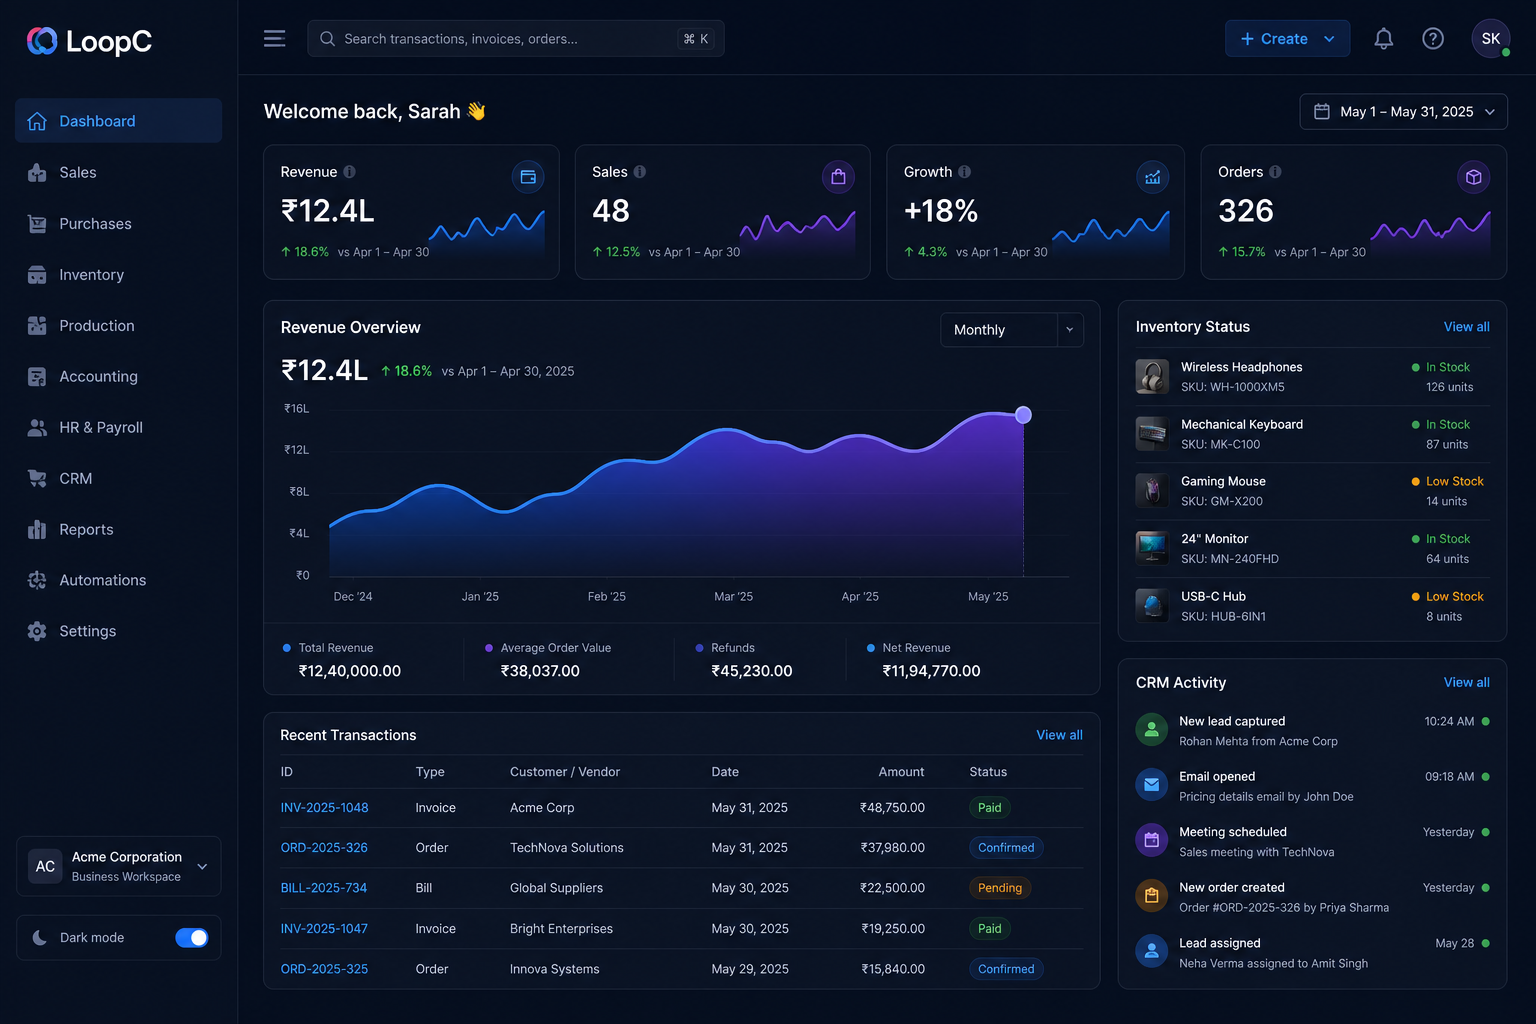
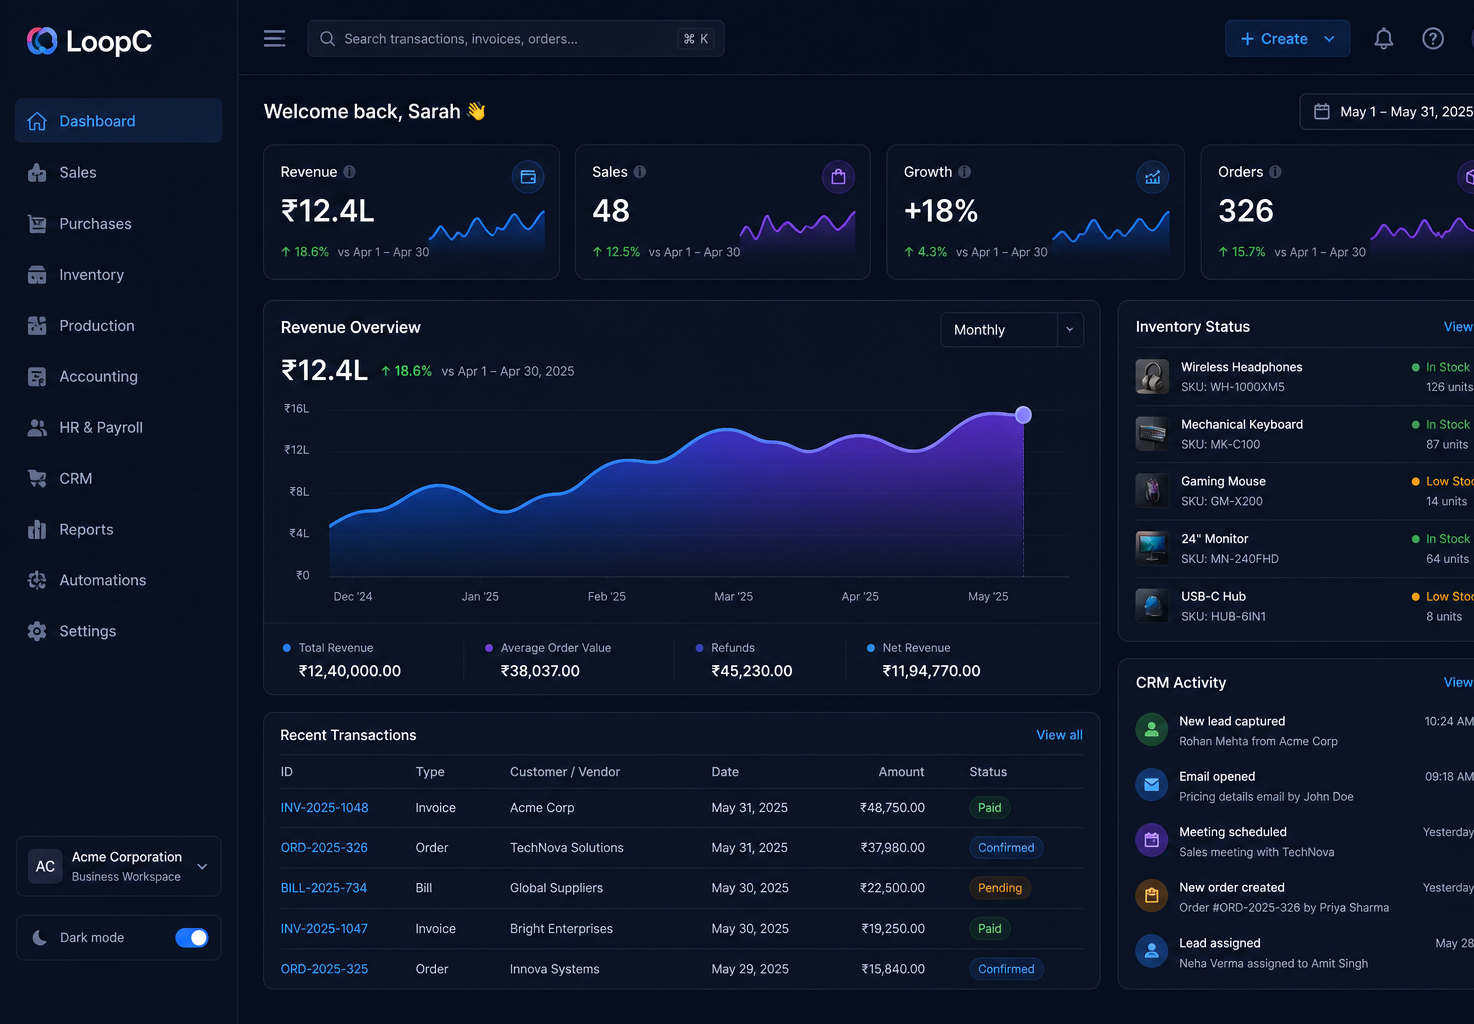
Harden marketing SEO and crop hero dashboard scrollbar.
Crop baked-in PNG scrollbars, centralize unique page titles and descriptions with robots/canonical metadata, add ERP FAQ schema, and tighten 404 noindex.

diff --git a/site/lib/seo.ts b/site/lib/seo.ts
@@ -1,5 +1,4 @@
 import type { Metadata } from "next";
-import { insightAuthor, type InsightPost } from "@/lib/insights";
 import type { Industry } from "@/lib/industries";
 import type { Project } from "@/lib/projects";
 import type { Service } from "@/lib/services";
@@ -19,20 +18,89 @@ export const seoKeywords = [
 ] as const;
 
 export const defaultSiteTitle =
-  "LoopC Business Strategies | ERP & Custom Business Software";
+  "LoopC Business Strategies | Enterprise ERP & Business Technology";
 
 export const defaultSiteDescription =
-  "LoopC builds LoopC ERP and custom business software — web applications, mobile apps, dashboards and integrations for growing companies.";
+  "LoopC builds LoopC ERP and custom business software — web apps, mobile apps, dashboards and integrations for growing companies in India.";
 
 export const homePageTitle =
-  "LoopC | ERP & Custom Business Software";
+  "LoopC Business Strategies | Enterprise ERP & Business Technology";
 
-export const homePageDescription = siteConfig.supportingLine;
+export const homePageDescription =
+  "Design and build powerful digital products for modern businesses — LoopC ERP, web and mobile apps, SaaS platforms and custom software.";
 
 export const openGraphTitle = "LoopC Business Strategies";
 
 export const openGraphDescription =
   "LoopC ERP plus custom web, mobile and dashboard software — built around the way your business works.";
+
+/** Unique SEO copy for static public marketing pages. */
+export const pageSeo = {
+  home: {
+    title: homePageTitle,
+    description: homePageDescription,
+  },
+  about: {
+    title: "About LoopC Business Strategies | Business Technology & Software",
+    description:
+      "Learn how LoopC designs practical, scalable digital products — from discovery to long-term support for growing businesses.",
+  },
+  services: {
+    title: "Software Development Services | LoopC Business Strategies",
+    description:
+      "Web, mobile, SaaS, ERP customization, dashboards and business automation — digital solutions built around your goals.",
+  },
+  erp: {
+    title: "LoopC ERP | Connected Business Management Platform",
+    description:
+      "Run finance, sales, inventory, CRM, HR and reporting in one connected ERP — web and mobile for everyday operations.",
+  },
+  pricing: {
+    title: "LoopC ERP Pricing | Business Management Plans",
+    description:
+      "Transparent INR plans for LoopC ERP — Starter, Business, Professional and Enterprise. Upgrade modules as you grow.",
+  },
+  contact: {
+    title: "Contact LoopC Business Strategies | Build Your Business Solution",
+    description:
+      "Tell us about your project or ERP needs. We respond with a clear next step for custom software or LoopC ERP.",
+  },
+  features: {
+    title: "LoopC ERP Features | Modules for Everyday Operations",
+    description:
+      "Explore LoopC ERP modules for accounting, inventory, CRM, HR, payroll and reporting in one connected platform.",
+  },
+  solutions: {
+    title: "Business Software Solutions | LoopC Business Strategies",
+    description:
+      "ERP, custom software, web apps and automation solutions that replace disconnected tools with systems that fit how you work.",
+  },
+  work: {
+    title: "Our Work | Selected LoopC Product Stories",
+    description:
+      "Selected LoopC work and live products we stand behind — practical software built for real business operations.",
+  },
+  industries: {
+    title: "Industries We Serve | ERP & Custom Software",
+    description:
+      "LoopC delivers ERP and custom software for trading, wholesale, distribution and other growing Indian businesses.",
+  },
+  privacy: {
+    title: "Privacy Policy | LoopC Business Strategies",
+    description:
+      "How LoopC Business Strategies collects, uses and protects information when you use our website and related services.",
+  },
+  terms: {
+    title: "Terms of Use | LoopC Business Strategies",
+    description:
+      "Terms that govern use of the LoopC Business Strategies website and related public marketing materials.",
+  },
+  brochure: {
+    title: "Company Brochure | LoopC Business Strategies",
+    description:
+      "Overview of LoopC ERP and custom software services — print-friendly brochure for teams evaluating LoopC.",
+  },
+} as const;
 
 export const sitemapPaths = [
   "/",
@@ -60,17 +128,22 @@ export function pageMetadata({
   description,
   path,
   type = "website",
+  index = true,
 }: {
   title: string;
   description: string;
   path: string;
   type?: "website" | "article";
+  index?: boolean;
 }): Metadata {
   const url = getAbsoluteUrl(path);
   return {
     title,
     description,
     alternates: { canonical: url },
+    robots: index
+      ? { index: true, follow: true }
+      : { index: false, follow: false },
     openGraph: {
       type,
       title,
@@ -174,25 +247,18 @@ export function getBreadcrumbSchema(items: { name: string; path: string }[]) {
   };
 }
 
-export function getArticleSchema(post: InsightPost) {
+export function getFaqPageSchema(faqs: { question: string; answer: string }[]) {
   return {
     "@context": "https://schema.org",
-    "@type": "Article",
-    headline: post.title,
-    description: post.description,
-    datePublished: post.publishedAt,
-    dateModified: post.updatedAt,
-    author: {
-      "@type": "Organization",
-      name: insightAuthor,
-      url: getSiteUrl(),
-    },
-    publisher: {
-      "@type": "Organization",
-      name: siteConfig.legalName,
-      url: getSiteUrl(),
-    },
-    mainEntityOfPage: getAbsoluteUrl(`/insights/${post.slug}`),
+    "@type": "FAQPage",
+    mainEntity: faqs.map((faq) => ({
+      "@type": "Question",
+      name: faq.question,
+      acceptedAnswer: {
+        "@type": "Answer",
+        text: faq.answer,
+      },
+    })),
   };
 }
 

diff --git a/site/app/not-found.tsx b/site/app/not-found.tsx
@@ -1,5 +1,12 @@
+import type { Metadata } from "next";
 import Link from "next/link";
 import { siteConfig } from "@/lib/site-config";
+
+export const metadata: Metadata = {
+  title: "Page not found",
+  description: `The page you requested is not available on the ${siteConfig.name} website.`,
+  robots: { index: false, follow: false },
+};
 
 export default function NotFound() {
   return (
@@ -22,13 +29,13 @@ export default function NotFound() {
             href="/"
             className="inline-flex rounded-full bg-gradient-to-r from-teal-600 to-teal-500 px-6 py-3 text-sm font-semibold text-white"
           >
-            Back Home
+            Back to LoopC home
           </Link>
           <Link
             href="/contact"
             className="inline-flex rounded-full border border-white/20 px-6 py-3 text-sm font-semibold text-white"
           >
-            Start a Project
+            Contact LoopC Business Strategies
           </Link>
         </div>
       </div>

diff --git a/site/app/erp/page.tsx b/site/app/erp/page.tsx
@@ -15,13 +15,12 @@ import {
   sectionByKey,
 } from "@/lib/erp-api";
 import { getSalesCta } from "@/lib/navigation";
-import { getBreadcrumbSchema, pageMetadata } from "@/lib/seo";
+import { getBreadcrumbSchema, getFaqPageSchema, pageMetadata, pageSeo } from "@/lib/seo";
 import { erpModules, siteConfig } from "@/lib/site-config";
 
 export const metadata: Metadata = pageMetadata({
-  title: "LoopC ERP | Business management software",
-  description:
-    "LoopC ERP brings finance, sales, inventory, CRM, HR and reporting into one connected system — web and mobile.",
+  title: pageSeo.erp.title,
+  description: pageSeo.erp.description,
   path: "/erp",
 });
 
@@ -51,6 +50,7 @@ export default async function ErpPage() {
           { name: "ERP", path: "/erp" },
         ])}
       />
+      {faqs.length > 0 ? <JsonLd data={getFaqPageSchema(faqs)} /> : null}
 
       <PageHero
         eyebrow="LoopC ERP"

diff --git a/site/app/contact/page.tsx b/site/app/contact/page.tsx
@@ -4,7 +4,7 @@ import { JsonLd } from "@/components/json-ld";
 import { PageHero } from "@/components/page-hero";
 import { Container } from "@/components/ui/container";
 import { mapIntentQuery, mapServiceQuery } from "@/lib/contact";
-import { getBreadcrumbSchema, pageMetadata } from "@/lib/seo";
+import { getBreadcrumbSchema, pageMetadata, pageSeo } from "@/lib/seo";
 import {
   getPublishedEmail,
   getWhatsAppUrl,
@@ -14,9 +14,8 @@ import {
 } from "@/lib/site-config";
 
 export const metadata: Metadata = pageMetadata({
-  title: "Contact LoopC | Start a project or explore the ERP",
-  description:
-    "Tell us what you're building — web app, mobile app, SaaS, ERP, custom software or dashboard. We will come back with a clear next step.",
+  title: pageSeo.contact.title,
+  description: pageSeo.contact.description,
   path: "/contact",
 });
 

diff --git a/site/app/about/page.tsx b/site/app/about/page.tsx
@@ -4,13 +4,12 @@ import { JsonLd } from "@/components/json-ld";
 import { PageHero } from "@/components/page-hero";
 import { FadeIn } from "@/components/motion/fade-in";
 import { Container } from "@/components/ui/container";
-import { getBreadcrumbSchema, pageMetadata } from "@/lib/seo";
+import { getBreadcrumbSchema, pageMetadata, pageSeo } from "@/lib/seo";
 import { deliveryProcess } from "@/lib/process";
 
 export const metadata: Metadata = pageMetadata({
-  title: "About LoopC | Technology built around your business",
-  description:
-    "LoopC is a technology team focused on creating practical, scalable and user-friendly digital products that help businesses operate better.",
+  title: pageSeo.about.title,
+  description: pageSeo.about.description,
   path: "/about",
 });
 

diff --git a/site/app/solutions/page.tsx b/site/app/solutions/page.tsx
@@ -4,13 +4,12 @@ import { JsonLd } from "@/components/json-ld";
 import { PageHero } from "@/components/page-hero";
 import { Container } from "@/components/ui/container";
 import { SectionHeader } from "@/components/ui/section-header";
-import { getBreadcrumbSchema, pageMetadata } from "@/lib/seo";
+import { getBreadcrumbSchema, pageMetadata, pageSeo } from "@/lib/seo";
 import { solutions } from "@/lib/solutions";
 
 export const metadata: Metadata = pageMetadata({
-  title: "Business software solutions | ERP & custom systems",
-  description:
-    "LoopC ERP, custom business software, web and mobile applications, dashboards, automation and ERP customization.",
+  title: pageSeo.solutions.title,
+  description: pageSeo.solutions.description,
   path: "/solutions",
 });
 

diff --git a/site/app/services/page.tsx b/site/app/services/page.tsx
@@ -5,12 +5,11 @@ import { PageHero } from "@/components/page-hero";
 import { FadeIn } from "@/components/motion/fade-in";
 import { Container } from "@/components/ui/container";
 import { ServiceExplorer } from "@/components/services/service-explorer";
-import { getBreadcrumbSchema, pageMetadata } from "@/lib/seo";
+import { getBreadcrumbSchema, pageMetadata, pageSeo } from "@/lib/seo";
 
 export const metadata: Metadata = pageMetadata({
-  title: "Services | Web, mobile, ERP & custom software",
-  description:
-    "From websites and mobile applications to complex business platforms — we design and develop digital solutions built around your goals.",
+  title: pageSeo.services.title,
+  description: pageSeo.services.description,
   path: "/services",
 });
 

diff --git a/site/app/brochure/page.tsx b/site/app/brochure/page.tsx
@@ -4,12 +4,12 @@ import { JsonLd } from "@/components/json-ld";
 import { PrintButton } from "@/components/print-button";
 import { Container } from "@/components/ui/container";
 import { footerServiceLinks } from "@/lib/services";
-import { getBreadcrumbSchema, pageMetadata } from "@/lib/seo";
+import { getBreadcrumbSchema, pageMetadata, pageSeo } from "@/lib/seo";
 import { siteConfig } from "@/lib/site-config";
 
 export const metadata: Metadata = pageMetadata({
-  title: "Company brochure",
-  description: `A printable overview of ${siteConfig.name} — software, apps, websites and custom systems from ${siteConfig.location.short}.`,
+  title: pageSeo.brochure.title,
+  description: pageSeo.brochure.description,
   path: "/brochure",
 });
 

diff --git a/site/app/industries/page.tsx b/site/app/industries/page.tsx
@@ -4,12 +4,11 @@ import { JsonLd } from "@/components/json-ld";
 import { PageHero } from "@/components/page-hero";
 import { Container } from "@/components/ui/container";
 import { industries } from "@/lib/industries";
-import { getBreadcrumbSchema, pageMetadata } from "@/lib/seo";
+import { getBreadcrumbSchema, pageMetadata, pageSeo } from "@/lib/seo";
 
 export const metadata: Metadata = pageMetadata({
-  title: "Software for trading, retail, manufacturing and more",
-  description:
-    "LoopC builds software for trading, wholesale, distribution, manufacturing, retail, education and professional services from OMR, Chennai.",
+  title: pageSeo.industries.title,
+  description: pageSeo.industries.description,
   path: "/industries",
 });
 

diff --git a/site/app/page.tsx b/site/app/page.tsx
@@ -19,16 +19,16 @@ import {
   sectionByKey,
 } from "@/lib/erp-api";
 import { getCustomSoftwareCta, getExploreErpCta } from "@/lib/navigation";
-import { getOrganizationSchema, homePageDescription, homePageTitle, pageMetadata } from "@/lib/seo";
+import { getOrganizationSchema, pageMetadata, pageSeo } from "@/lib/seo";
 import { siteConfig } from "@/lib/site-config";
 
 export const metadata: Metadata = {
   ...pageMetadata({
-    title: homePageTitle,
-    description: homePageDescription,
+    title: pageSeo.home.title,
+    description: pageSeo.home.description,
     path: "/",
   }),
-  title: { absolute: homePageTitle },
+  title: { absolute: pageSeo.home.title },
 };
 
 type SitePayload = {

diff --git a/site/components/home/hero-visual-image.tsx b/site/components/home/hero-visual-image.tsx
@@ -5,7 +5,7 @@ import { motion, useReducedMotion } from "framer-motion";
 
 export function HeroVisualImage({
   src = "/images/hero/dashboard.png",
-  alt = "LoopC business dashboard showing revenue, sales, inventory and live activity",
+  alt = "LoopC ERP business analytics dashboard showing revenue, sales, inventory and live activity",
 }: {
   src?: string;
   alt?: string;
@@ -43,7 +43,7 @@ export function HeroVisualImage({
               fill
               priority
               sizes="(max-width: 1024px) 100vw, 55vw"
-              className="scale-[1.06] object-cover object-left-top"
+              className="object-cover object-left-top"
             />
           </div>
         </div>

diff --git a/site/app/pricing/page.tsx b/site/app/pricing/page.tsx
@@ -4,12 +4,11 @@ import { PageHero } from "@/components/page-hero";
 import { PricingPlans } from "@/components/pricing/pricing-plans";
 import { Container } from "@/components/ui/container";
 import { type ErpPlan, erpFetch, getErpPublicUrl } from "@/lib/erp-api";
-import { getBreadcrumbSchema, pageMetadata } from "@/lib/seo";
+import { getBreadcrumbSchema, pageMetadata, pageSeo } from "@/lib/seo";
 
 export const metadata: Metadata = pageMetadata({
-  title: "ERP pricing",
-  description:
-    "LoopC ERP subscription plans in INR — Starter, Business, Professional and Enterprise.",
+  title: pageSeo.pricing.title,
+  description: pageSeo.pricing.description,
   path: "/pricing",
 });
 
